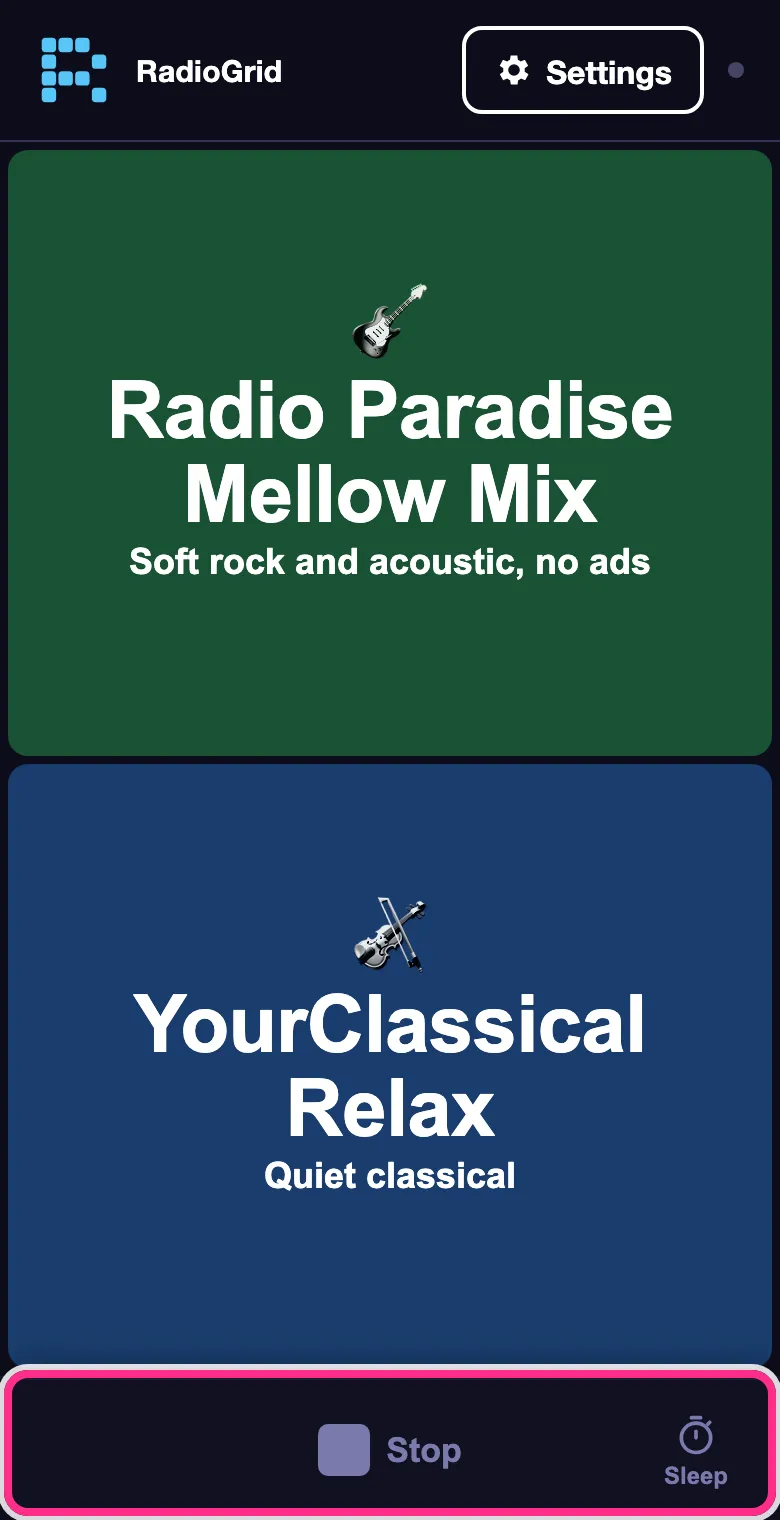
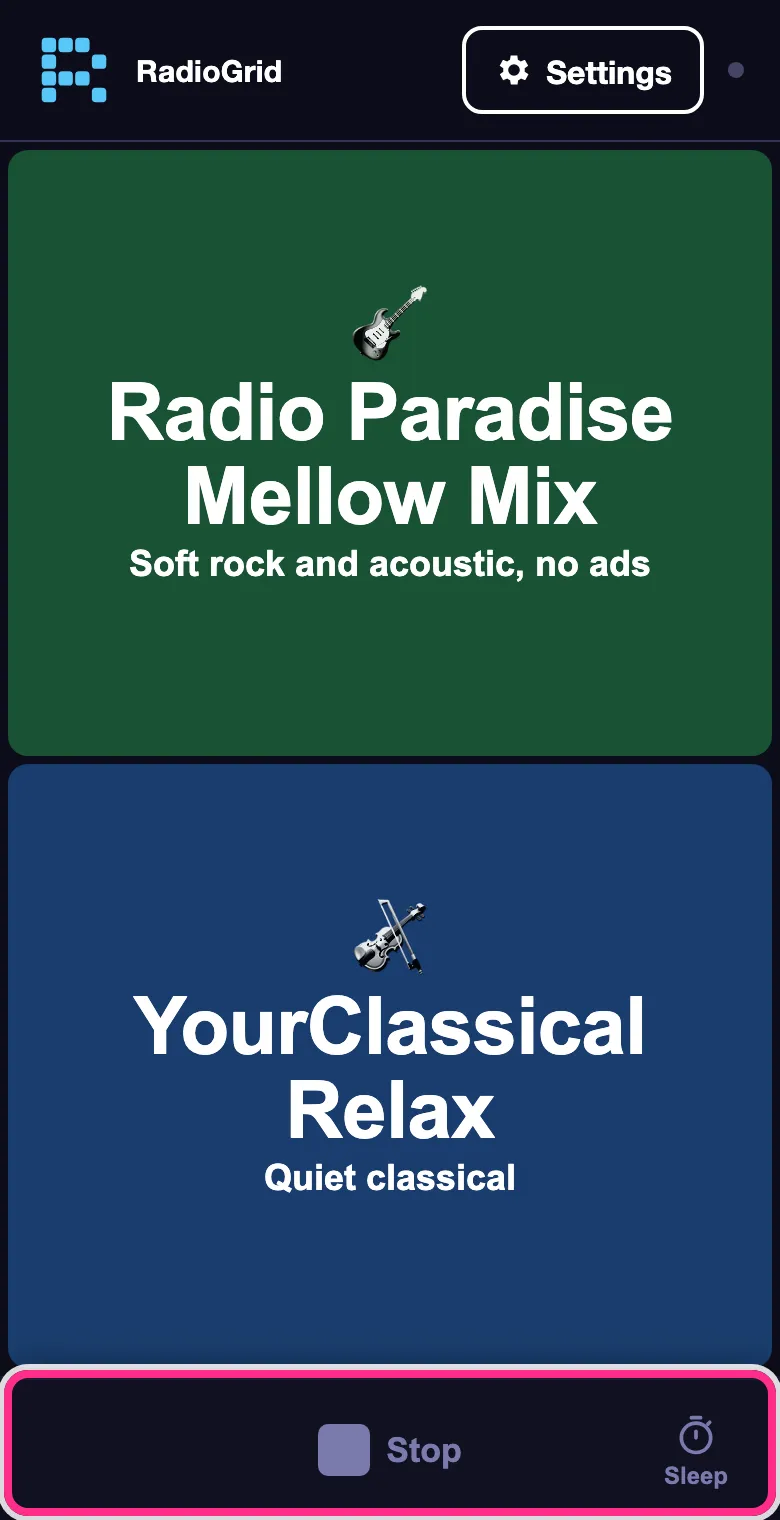
chore: RadioGrid v7.26.0
The release where each control has one job: a station tile plays, Stop
stops. Guide and project-page shots retaken at the new version, with the
speaker mark on the playing station.

The project page's now-playing shot is taken as live radio now. Its
silent test stream reported a length, so the app showed a recording's
Pause, Back 15 and Skip 30 under a live station; live radio gets Stop
alone.

diff --git a/RadioGridXL.html b/RadioGridXL.html
@@ -3191,7 +3191,7 @@ html.theme-fading, html.theme-fading * {
         </div>
       </div>
       <button id="reset-btn" onclick="confirmReset()">Reset to Defaults</button>
-      <div id="settings-version">RadioGrid v7.25.0</div>
+      <div id="settings-version">RadioGrid v7.26.0</div>
       <!-- Who made it, from PROFILE.madeBy; never a link (promise-stays-radio).
            MarshWorks gets the brand kit's "made by" block; any other maker,
            and the MonoRadio and High Contrast themes, get the plain text line. -->

diff --git a/src/shell.html b/src/shell.html
@@ -419,7 +419,7 @@
         </div>
       </div>
       <button id="reset-btn" onclick="confirmReset()">Reset to Defaults</button>
-      <div id="settings-version">RadioGrid v7.25.0</div>
+      <div id="settings-version">RadioGrid v7.26.0</div>
       <!-- Who made it, from PROFILE.madeBy; never a link (promise-stays-radio).
            MarshWorks gets the brand kit's "made by" block; any other maker,
            and the MonoRadio and High Contrast themes, get the plain text line. -->

diff --git a/sw.js b/sw.js
@@ -5,7 +5,7 @@
    it sat at v1 from 7.5.0). Keep it in lockstep with the version-bump routine.
    The server sends sw.js no-cache, so each load refetches this file and the
    install→activate purge cycle kicks in. */
-const CACHE_VERSION = 'rgxl-shell-7.25.0';
+const CACHE_VERSION = 'rgxl-shell-7.26.0';
 
 /* Shell assets, relative to the SW scope (the directory it's served from).
    start_url is "." so the HTML is reachable both as "./" and by filename.

diff --git a/CLAUDE.md b/CLAUDE.md
@@ -17,7 +17,7 @@ RadioGrid is a radio for people who can't run a normal app: someone sets it up o
   - **Promises**: `PROMISES.md` lists what the app promises its users; each line names its check. `tests/promises.test.mjs` runs every check against a throwaway copy with each breaker in `tests/promise-breakers.mjs` applied, and fails if any breaker gets through. The Chromium checks (`promise-no-egress`, `promise-reduced-motion`, the rendered half of `contrast`) share one walk of every screen, `walkEverything()` in `tests/browser-harness.mjs`: a new screen or dialog goes there. They need `npx playwright install chromium` and the sandbox off
   - `npm run test:dom` — behavioral tests (`node:test` + jsdom) for the persistence / validation / PIN logic, run against the real app in a DOM. Dev dependencies: jsdom (tests) and Playwright (guide screenshots, and the real-Chromium promise checks). jsdom has no layout engine, so `tests/layout.test.mjs` checks `renderButtons`' sizing arithmetic on stubbed element sizes only; how text actually wraps and clips is verified on a real screen.
 - **Scheduled checks** (GitHub Actions, read-only, failures email): `live.yml` runs `smoke-live.mjs` against radio.marshworks.dev daily; `shelves.yml` runs `check-shelves.mjs` on Mondays. Node is pinned in `.nvmrc` for CI and local runs alike; the smoke test fails on a mismatch, so after a Node upgrade bump `.nvmrc`
-- **Version**: v7.25.0 (shown in settings footer, `#settings-version` in `src/shell.html`)
+- **Version**: v7.26.0 (shown in settings footer, `#settings-version` in `src/shell.html`)
 
 ## Architecture
 

diff --git a/guide/guide.md b/guide/guide.md
@@ -1,7 +1,7 @@
 ---
 title: How to use RadioGrid
 description: Open settings, change and add stations, pick a theme, and set it up for someone who just wants to press a button and hear music.
-appVersion: 7.25.0
+appVersion: 7.26.0
 ---
 
 RadioGrid is built for the person listening: big buttons, one per station, nothing else to figure out. Everything you can change is tucked away in a hidden settings panel, so the listener never lands there by accident.
